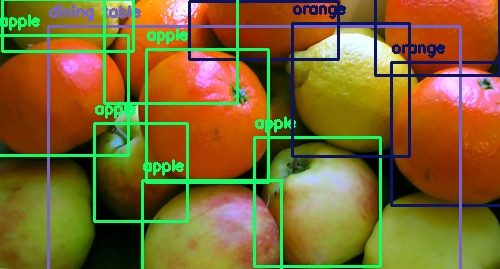
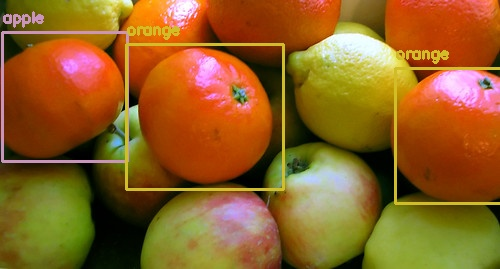
Finished the task of week 1

Changed region(s): [[0.0, 0.0, 1.0, 1.0]]

diff --git a/week1/src/client.py b/week1/src/client.py
@@ -5,13 +5,72 @@ import requests
 import numpy as np
 from IPython.display import Image, display
 
-base_url = 'http://localhost:8000'
+base_url = 'http://127.0.0.1:8000'
 endpoint = '/predict'
-model='yolov3-tiny'
+model = 'yolov3-tiny'
+confidence = '0.5'
 
 url_with_endpoint_no_params = base_url + endpoint
 print(url_with_endpoint_no_params)
 
-full_url = url_with_endpoint_no_params + "?model=" + model
+full_url = url_with_endpoint_no_params + "?model=" + model + "&confidence=" + confidence
 print(full_url)
 
+
+def response_from_server(url, image_file, verbose=True):
+    """Makes a POST request to the server and returns the response.
+
+    :param url (str): URL that the request is sent to.
+    :param image_file (_io.BufferedReader): File to upload,
+    :param verbose (bool): True if the status of the response should be printed, False otherwise.
+    :return:
+        requests.models.Response: Response from the server.
+    """
+    files = {'file': image_file}
+    response = requests.post(url, files=files)
+    status_code = response.status_code
+    if verbose:
+        msg = "Everything went well!" if status_code == 200 else "There was an error when handling the request."
+        print(msg)
+    return response
+
+
+with open("../images/fruits.jpg", "rb") as image_file:
+    prediction = response_from_server(full_url, image_file)
+
+dir_name = "../images_predicted"
+if not os.path.exists(dir_name):
+    os.mkdir(dir_name)
+
+
+def display_image_from_response(response):
+    """Display image within server's response.
+
+    :param response (requests.models.Response): The response from the server after object detection.
+    """
+
+    # Read image as a stream of bytes
+    image_stream = io.BytesIO(response.content)
+    # Start the stream from the beginning (position zero)
+    image_stream.seek(0)
+    # Write the stream of bytes into a numpy array
+    file_bytes = np.asarray(bytearray(image_stream.read()), dtype=np.uint8)
+    image = cv2.imdecode(file_bytes, cv2.IMREAD_COLOR)
+    filename = "image_with_objects.jpeg"
+    cv2.imwrite(f'../images_predicted/{filename}', image)
+    #display(image(f'../images_predicted/{filename}'))
+
+
+display_image_from_response(prediction)
+
+image_files = [
+    'car2.jpg',
+    'clock3.jpg',
+    'apples.jpg'
+]
+
+for image_file in image_files:
+    with open(f'../images/{image_file}', 'rb') as image_file:
+        prediction = response_from_server(full_url, image_file, verbose=False)
+
+    display_image_from_response(prediction)

diff --git a/week1/src/server.py b/week1/src/server.py
@@ -37,7 +37,7 @@ def home():
 # This endpoint handles all the logic necessary for the object detection to work.
 # It requires the desired model and the image in which to perform object detection.
 @app.post("/predict")
-def prediction(model: Model, file: UploadFile = File(...)):
+def prediction(model: Model, confidence: str, file: UploadFile = File(...)):
     # 1. VALIDATE INPUT FILE
     filename = file.filename
     fileExtension = filename.split(".")[-1] in ("jpg", "jpeg", "png")
@@ -61,7 +61,7 @@ def prediction(model: Model, file: UploadFile = File(...)):
     # 3. RUN OBJECT DETECTION MODEL
 
     # Run object detection
-    bbox, label, conf = cvlib.detect_common_objects(image, model=model, confidence=0.2)
+    bbox, label, conf = cvlib.detect_common_objects(image, model=model, confidence=float(confidence))
 
     # Create image that includes bounding boxes and labels
     output_image = draw_bbox(image, bbox, label, conf)
